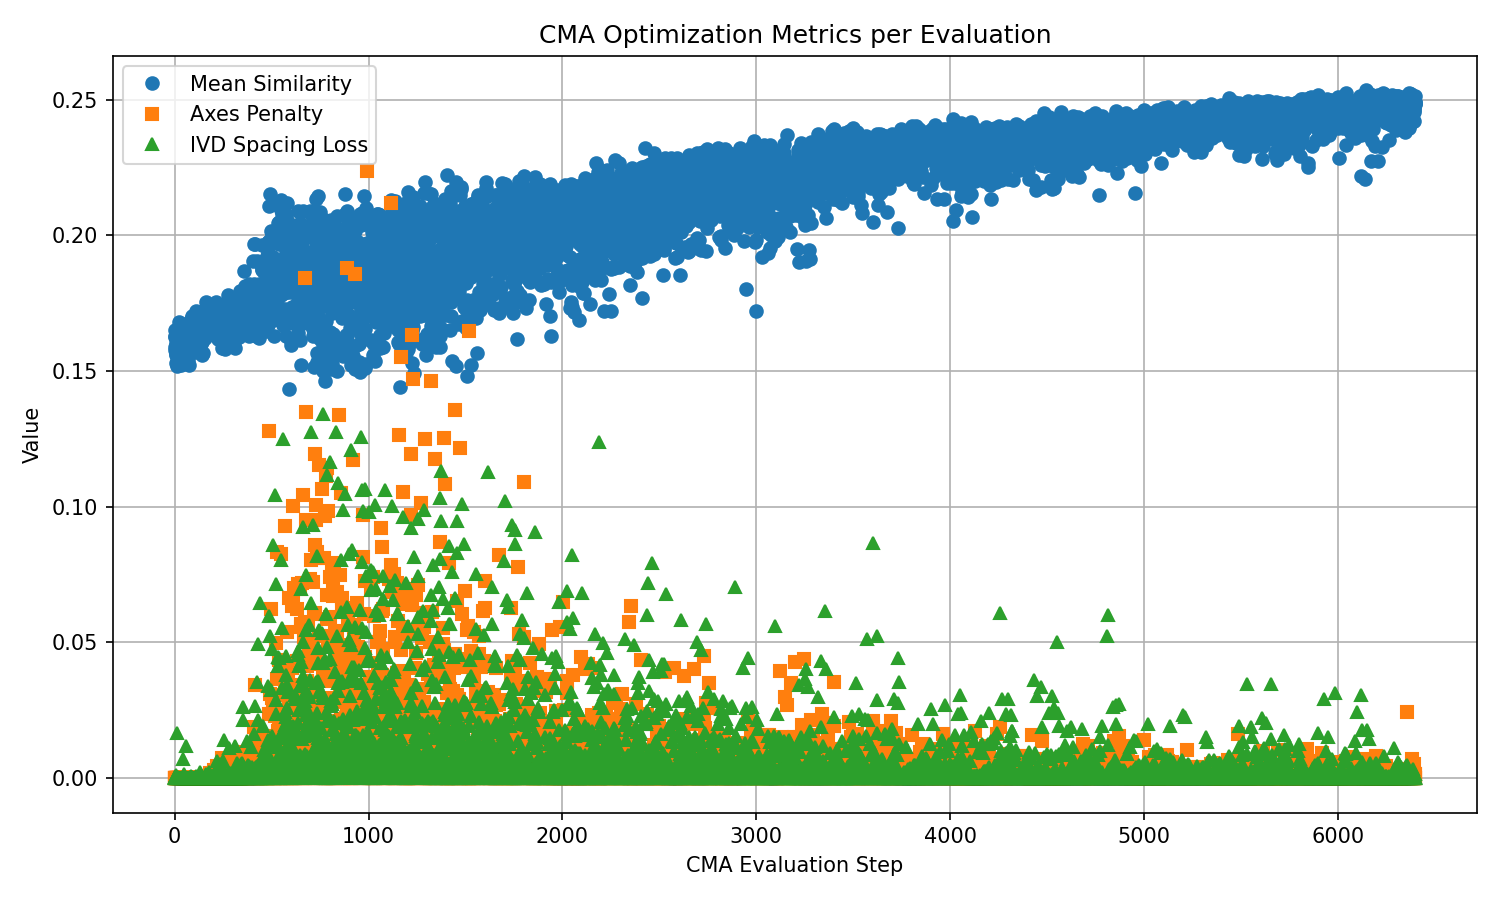
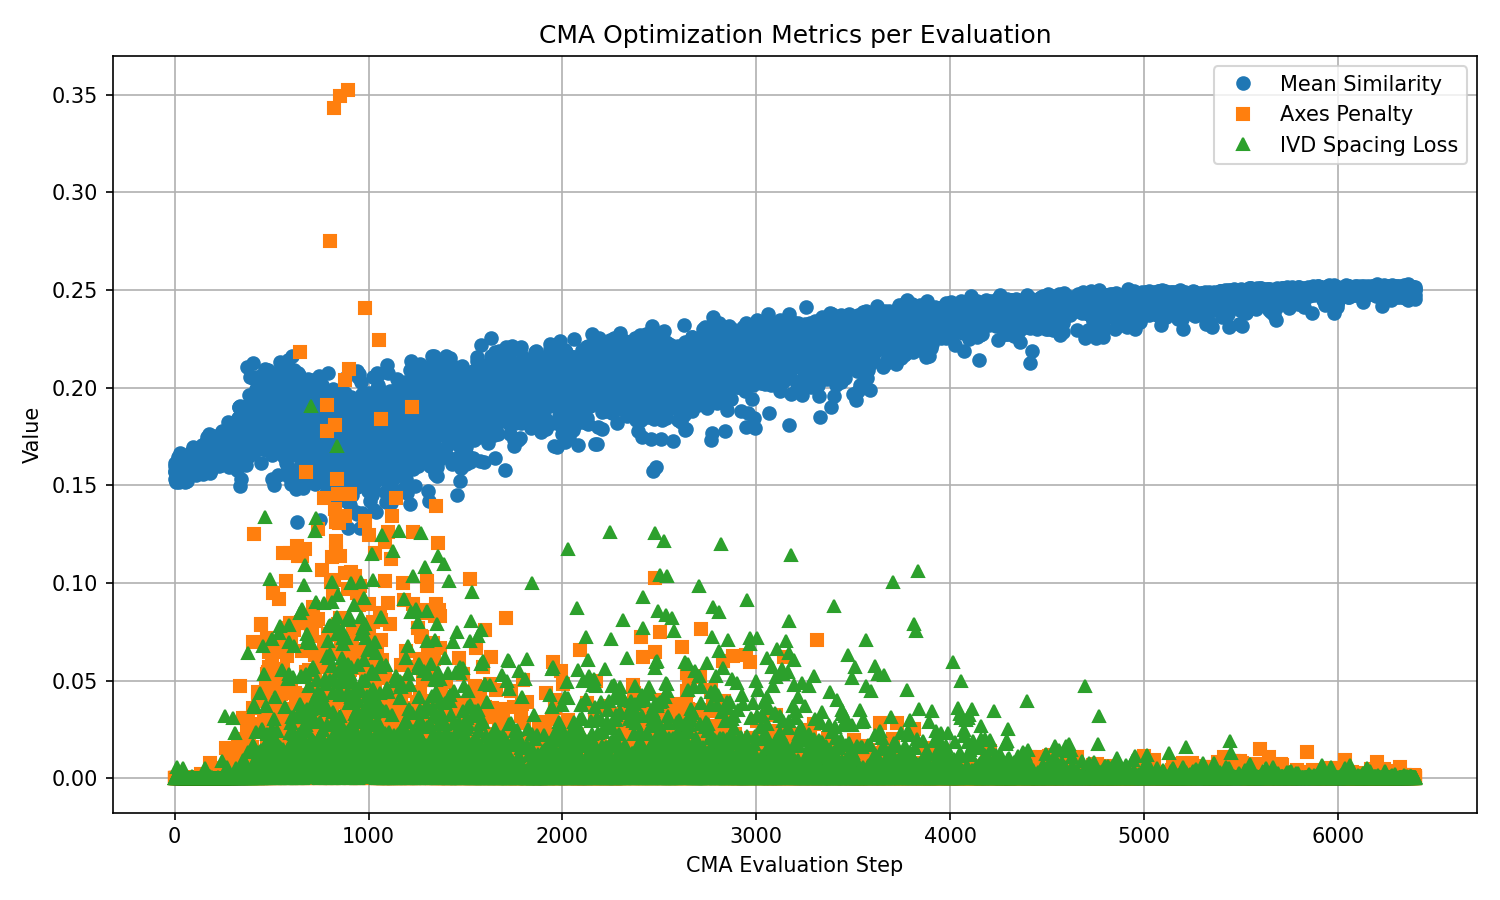
min spacing addition to IVD loss

diff --git a/utils/helpers.py b/utils/helpers.py
@@ -29,16 +29,32 @@ def compute_ivd_collision_loss(pairings, transforms_list, case_names):
         # transform points to fixed space
         tx1 = transforms_list[i]
         tx2 = transforms_list[i + 1]
-        
         pts1_transformed = np.array([tx1.TransformPoint(p.tolist()) for p in pts1])
         pts2_transformed = np.array([tx2.TransformPoint(p.tolist()) for p in pts2])
         
+
         # compute current pairwise distances
         current_distances = np.linalg.norm(pts1_transformed - pts2_transformed, axis=1)
 
+        # if pair_key == (2, 3):
+        #     d0 = initial_distances
+        #     d = current_distances
+        #     min_allowed = (1.0 - max_compression_frac) * d0
 
+        #     print("\n=== L2–L3 SPACING DIAGNOSTICS ===")
+        #     print(f"initial mean: {np.mean(d0):.2f} mm")
+        #     print(f"initial min : {np.min(d0):.2f} mm")
+        #     print(f"current mean: {np.mean(d):.2f} mm")
+        #     print(f"current min : {np.min(d):.2f} mm")
+        #     print(f"min_allowed mean: {np.mean(min_allowed):.2f} mm")
+        #     print(f"min_allowed min : {np.min(min_allowed):.2f} mm")
+
+        #     print(f"#points below min_allowed: {np.sum(d < min_allowed)} / {len(d)}")
+        #     print(f"max violation (mm): {np.max(np.maximum(0, min_allowed - d)):.2f}")
+
+
+        # LOSS COMPONENT #1: DIRECTION VECTOR FLIPPING (collision)
         # cosine similiarity between current vectors and v0
-        w_direction = 1.0
         v0 = pairings[pair_key]['v0']  # precomputed initial vectors
         v_current = pts2_transformed - pts1_transformed
 
@@ -55,7 +71,7 @@ def compute_ivd_collision_loss(pairings, transforms_list, case_names):
 
 
 
-        # LOSS COMPONENT 1: COLLISION AVOIDANCE (HARD)
+        # LOSS COMPONENT 2: COLLISION AVOIDANCE (HARD)
         collision_threshold = 1.0  # mm - hard collision boundary
         violations = collision_threshold - current_distances
         violations = np.maximum(0, violations)
@@ -64,11 +80,24 @@ def compute_ivd_collision_loss(pairings, transforms_list, case_names):
         collision_penalty = np.sum(np.exp(violations) - 1.0)
         n_collisions = np.sum(current_distances < collision_threshold)
         
-        # LOSS COMPONENT 2: PRESERVE MEAN SPACING (SOFT)
+
+
+        # LOSS COMPONENT 3a: PRESERVE MIN SPACING (SOFT)
+        max_compression_frac = 0.35 # percentile
+        min_allowed = (1.0 - max_compression_frac) * initial_distances
+
+        spacing_violations = min_allowed - current_distances
+        spacing_violations = np.maximum(0, spacing_violations)
+
+        relative_spacing_penalty = np.mean(spacing_violations ** 2) # try .sum?
+
+
+
+        # LOSS COMPONENT 3b: PRESERVE MEAN SPACING (SOFT)
         initial_mean = np.mean(initial_distances)
         current_mean = np.mean(current_distances)
         
-        # tolerance, ~2x std as natural variation
+        # tolerance
         tolerance = 1.5  # mm - allows curvature/natural compression
         mean_deviation = abs(current_mean - initial_mean) - tolerance
         
@@ -77,11 +106,17 @@ def compute_ivd_collision_loss(pairings, transforms_list, case_names):
         else:
             mean_spacing_penalty = 0.0
 
-        w_collision = 1.0   # CRITICAL - prevent collisions, mayeb try 2?
-        w_mean_spacing = 0.5   # Moderate - maintain anatomy
+
+
+        # COMPUTE LOSS
+        w_collision = 1.0   # critical - prevent collisions, mayeb try 2?
+        w_mean_spacing = 0.5   # moderate - maintain anatomy
+        w_direction = 1.0
+        w_relative_spacing = 1.0
         
         pair_loss = (
             w_collision * collision_penalty +
+            w_relative_spacing * relative_spacing_penalty +
             w_mean_spacing * mean_spacing_penalty +
             w_direction * direction_penalty
         )
@@ -92,7 +127,7 @@ def compute_ivd_collision_loss(pairings, transforms_list, case_names):
         
         # store metrics
         metrics[pair_name] = {
-            'pair_idx': pair_key,   # optional: keep numeric version
+            'pair_idx': pair_key,   
             'current_mean': float(current_mean),
             'initial_mean': float(initial_mean),
             'current_min': float(np.min(current_distances)),
